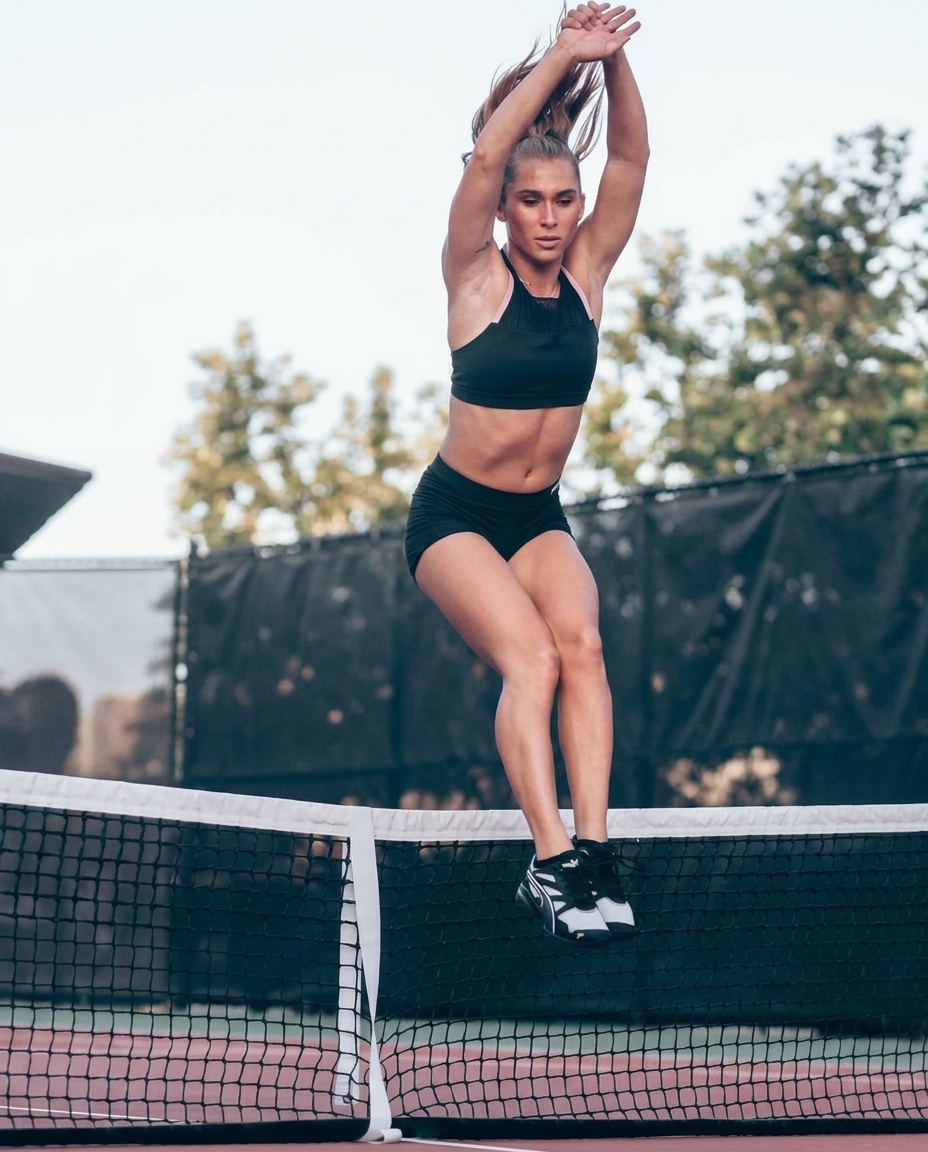
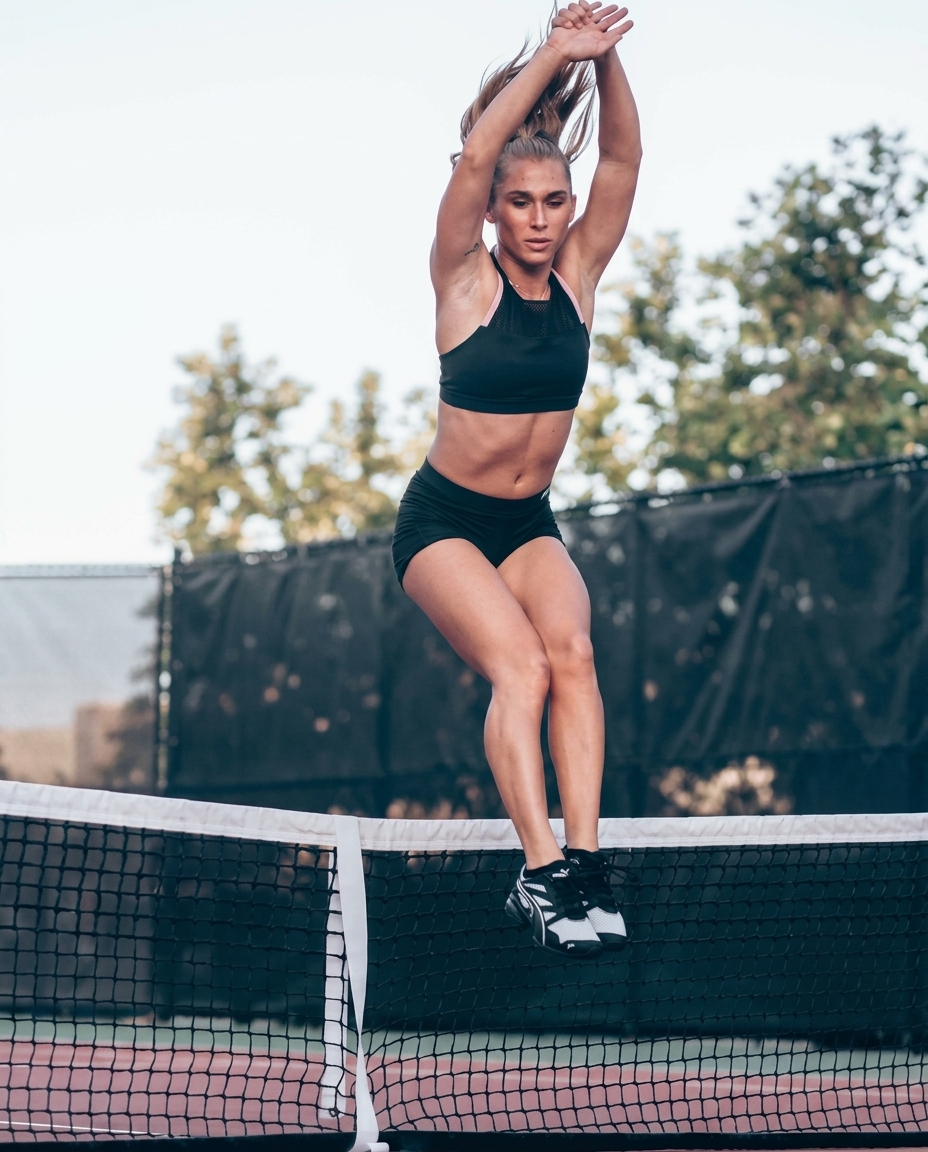
feat(hero+about): mobile zoom on slide 1, image upgrades via Nano Banana 2
Hero (mobile only):
- Slide 1 ("the jumping shot") now zooms in slightly (scale 1.12) and shifts
  object-position right (50% → 68% on x). Adds a per-slide `mobileScale` field
  on the Slide type so we can opt-in zoom per image without touching the others.

Image quality upgrades — same photos, sharper output:
- Updated BASE_PROMPT in scripts/reframe-imported-images.mjs to make upscale
  intent explicit ("output must be sharper and noticeably higher-resolution
  than the input… increase fine detail in skin, hair, fabric, and background
  texture without altering composition or identity").
- Re-rendered:
  - summer-hero-action-desktop.png (638 KB → 641 KB)
  - summer-hero-action-mobile.png  (595 KB → 620 KB)
  - summer-private-setting-portrait.png (615 KB → 605 KB)
- About hero swaps back from the raw gallery JPG to the new refined PNG.

Verified locally with `npm run dev`: / and /about return 200, all three image
URLs return 200, the mobile hero HTML carries the new scale-[1.12] class +
"68% 30%" object-position. Build + lint clean.

diff --git a/src/components/summer/Hero.tsx b/src/components/summer/Hero.tsx
@@ -16,6 +16,8 @@ type Slide = {
   alt: string;
   desktopPosition: string;
   mobilePosition: string;
+  /** Optional CSS scale class applied to the mobile <Image>, e.g. "scale-110". */
+  mobileScale?: string;
 };
 
 const SLIDES: Slide[] = [
@@ -25,7 +27,8 @@ const SLIDES: Slide[] = [
     mobileSrc: "/images/summer/refined/summer-hero-action-mobile.png",
     alt: "Summer Loffler in a cinematic editorial portrait.",
     desktopPosition: "55% 30%",
-    mobilePosition: "50% 30%",
+    mobilePosition: "68% 30%",
+    mobileScale: "scale-[1.12]",
   },
   {
     id: "hero-bw-2",
@@ -144,7 +147,10 @@ export function Hero({
                   fill
                   priority={idx === 0}
                   sizes="100vw"
-                  className="object-cover md:hidden"
+                  className={cn(
+                    "object-cover md:hidden",
+                    slide.mobileScale,
+                  )}
                   style={{ objectPosition: slide.mobilePosition }}
                 />
               </div>

diff --git a/src/app/about/page.tsx b/src/app/about/page.tsx
@@ -63,7 +63,7 @@ export default async function AboutPage() {
             <ScrollReveal className="lg:col-span-5">
               <div className="relative aspect-[4/5] overflow-hidden bg-[color:var(--paper-300)]">
                 <Image
-                  src="/images/summer/gallery/summer_gallery_lifestyle.jpg"
+                  src="/images/summer/refined/summer-private-setting-portrait.png"
                   alt="Summer Loffler seated in a calm interior setting with strong natural light."
                   fill
                   priority
